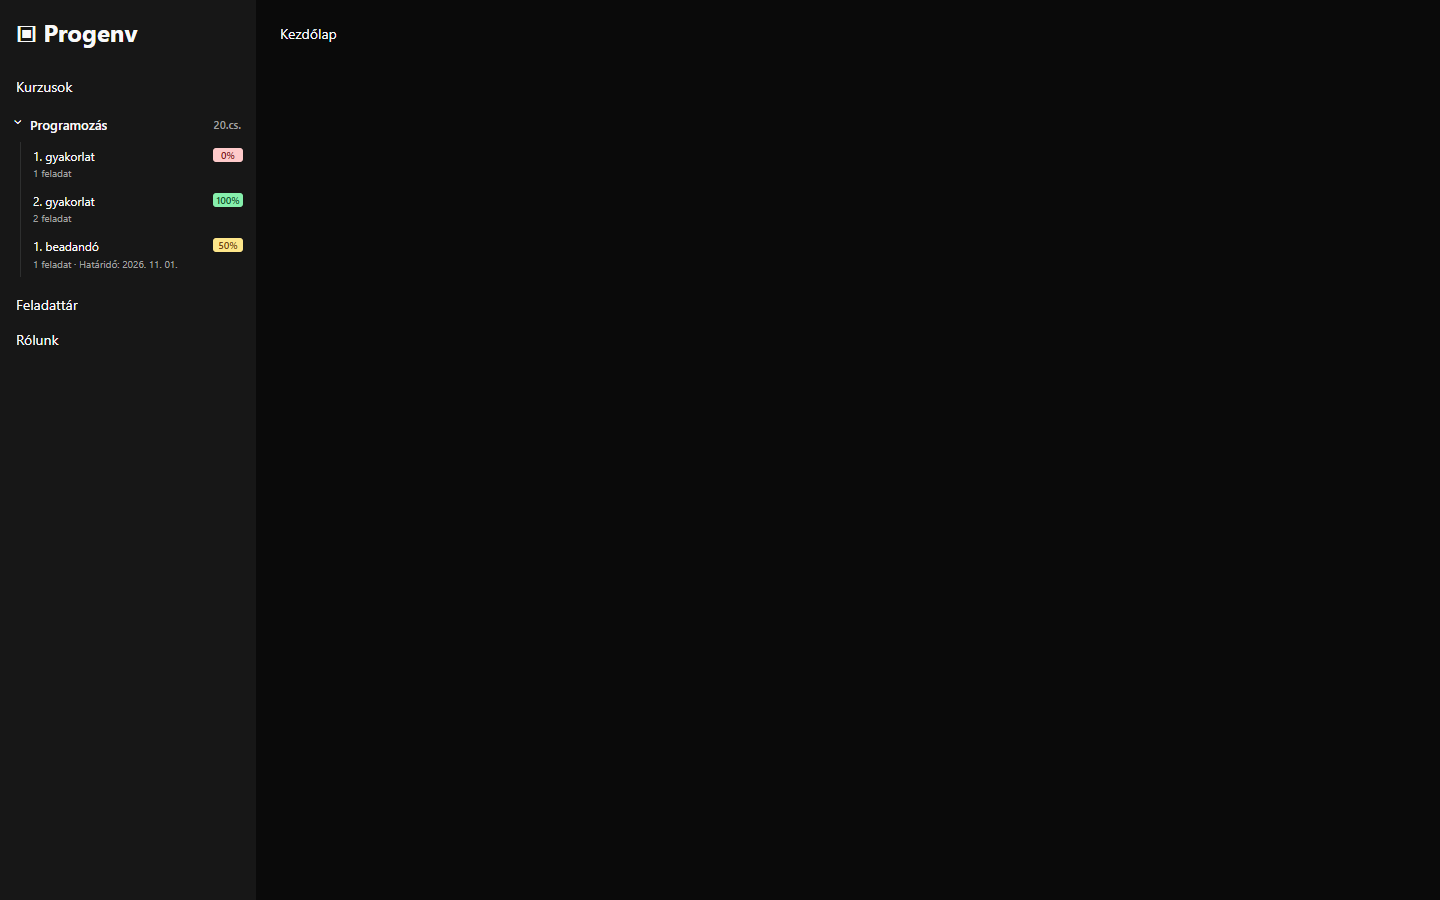
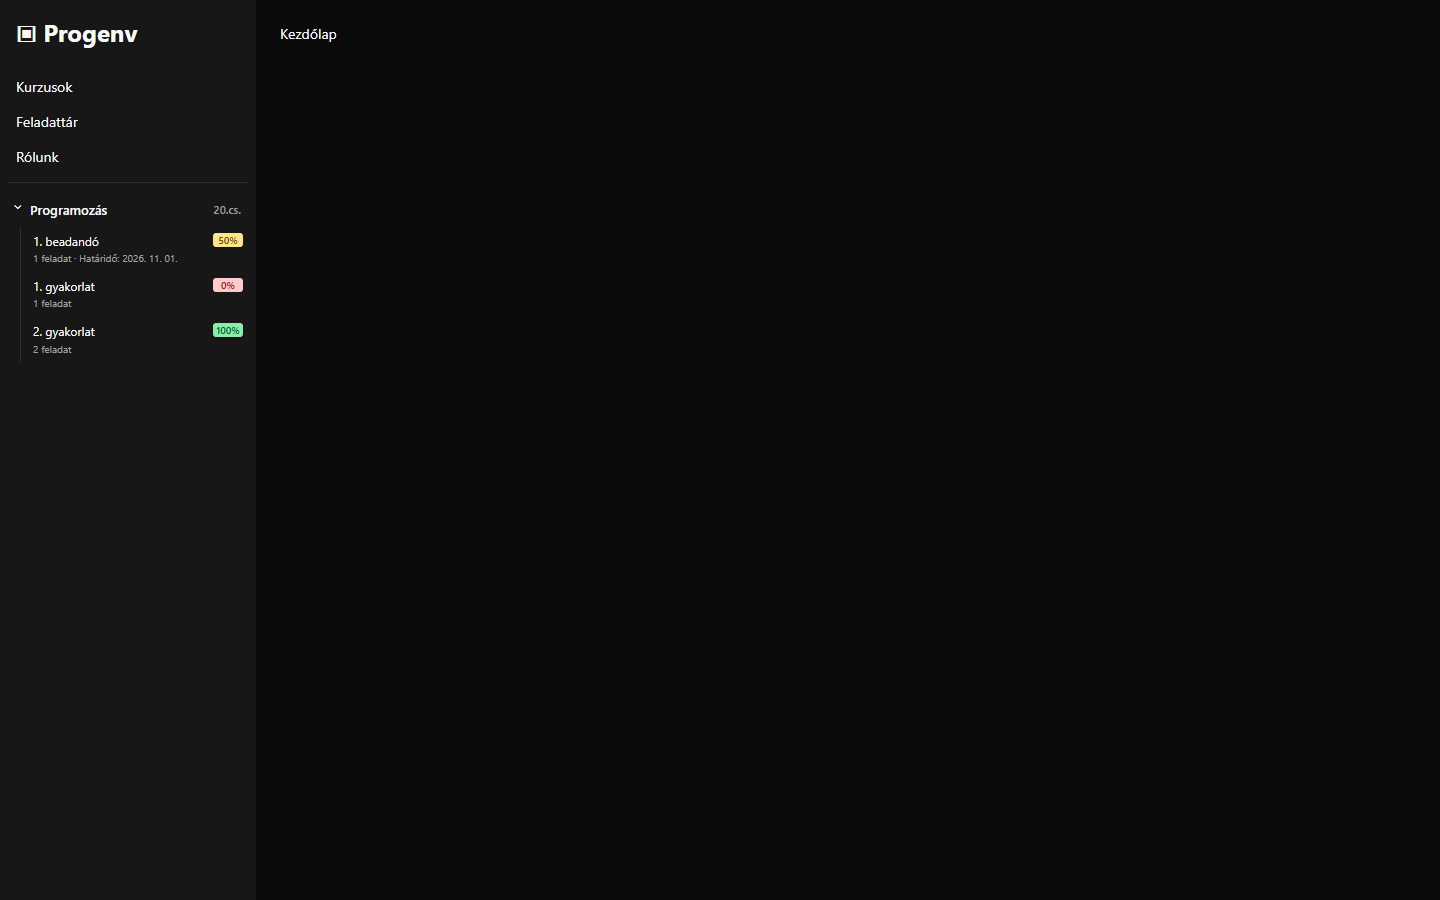
Sort Progenv topics by deadline in a separate sidebar section

diff --git a/progenv-model.js b/progenv-model.js
@@ -21,6 +21,31 @@
     const match = name.match(/(?:^|\s)(\d+)\.?\s*(?:csoport|group)\b/i) || name.match(/^group\s+(\d+)$/i);
     return match ? match[1]+".cs." : name;
   }
+  function deadlineTime(value, locale = 'hu') {
+    const text = clean(value);
+    let match = text.match(/\b(\d{4})[.\/-]\s*(\d{1,2})[.\/-]\s*(\d{1,2})(?:\.?[ T]+(\d{1,2}):(\d{2}))?/);
+    if (!match && locale === 'en') {
+      const english = text.match(/\b(\d{1,2})\/(\d{1,2})\/(\d{4})(?:\s+(\d{1,2}):(\d{2}))?/);
+      if (english) match = [english[0],english[3],english[1],english[2],english[4],english[5]];
+    }
+    if (!match) return null;
+    const [,year,month,day,hour,minute] = match;
+    // A deadline shown without a time remains upcoming through that date.
+    const date = new Date(+year,+month-1,+day,hour == null ? 23 : +hour,minute == null ? 59 : +minute,hour == null ? 59 : 0,hour == null ? 999 : 0);
+    if (date.getFullYear() !== +year || date.getMonth() !== +month-1 || date.getDate() !== +day ||
+        (hour != null && (+hour > 23 || +minute > 59))) return null;
+    return date.getTime();
+  }
+  function sortTopics(topics, now = Date.now()) {
+    const category = topic => Number.isFinite(topic.expiresAt) ? topic.expiresAt >= now ? 0 : 1 : 2;
+    return [...topics].sort((a,b) => {
+      const aCategory = category(a), bCategory = category(b);
+      if (aCategory !== bCategory) return aCategory-bCategory;
+      if (aCategory === 0) return a.expiresAt-b.expiresAt;
+      if (aCategory === 1) return b.expiresAt-a.expiresAt;
+      return 0;
+    });
+  }
   function cards(doc) { return [...doc.querySelectorAll('main [data-slot="card"]')]; }
   function courses(doc, base, locale) {
     const result = new Map();
@@ -70,12 +95,15 @@
       const spans = [...card.querySelectorAll('span')].map(span => clean(span.textContent));
       const count = spans.find(text => /^\d+\s+(?:feladat|tasks?)$/i.test(text)) || "";
       const deadline = spans.find(text => /^(?:Határidő|Deadline|Due)\s*:/i.test(text)) || "";
-      topics.set(link.url,{...link,name:clean(anchor.textContent),score,count,deadline});
+      const closes = spans.find(text => /^(?:Lezárva ekkor|Lezárás|Closes at|Closes|Closing date)\s*:/i.test(text)) || "";
+      const expiryLabel = deadline || closes;
+      topics.set(link.url,{...link,name:clean(anchor.textContent),score,count,deadline:expiryLabel,
+        expiresAt:deadlineTime(expiryLabel,locale)});
     }
     return {...target,key:`${course.courseId}/${target.groupId}`,courseName:course.name,
       name:heading || fallback?.name || "",label:groupLabel(heading || fallback?.name || ""),topics:[...topics.values()]};
   }
-  const api = {route,courseName,groupLabel,courses,groups,group};
+  const api = {route,courseName,groupLabel,deadlineTime,sortTopics,courses,groups,group};
   if (typeof module !== "undefined" && module.exports) module.exports = api;
   else scope.ProgenvSidebarModel = api;
 })(globalThis);

diff --git a/progenv.js b/progenv.js
@@ -9,7 +9,7 @@
   let controller = null, collapsed = {}, errorText = "", generation = 0;
   const style = document.createElement('style');
   style.textContent = `
-    .progenv-quick-courses { color:var(--sidebar-foreground,inherit); font:inherit; padding:2px 0 5px; min-width:0; }
+    .progenv-quick-courses { color:var(--sidebar-foreground,inherit); font:inherit; margin-top:8px; padding:8px 0 5px; border-top:1px solid var(--sidebar-border,#8884); min-width:0; }
     .progenv-quick-courses * { box-sizing:border-box; }
     .progenv-quick-courses details { margin:2px 0 5px; }
     .progenv-quick-courses summary { display:flex; align-items:center; gap:5px; min-height:32px; padding:5px 7px; border-radius:6px; cursor:pointer; font-size:13px; font-weight:600; list-style:none; }
@@ -54,7 +54,7 @@
       summary.append(element('span','progenv-course-name',record.courseName),element('span','progenv-group-number',record.label));
       details.append(summary);
       const list = element('ul','progenv-topic-list');
-      for (const topic of record.topics) {
+      for (const topic of model.sortTopics(record.topics)) {
         const item = element('li');
         const anchor = element('a','progenv-topic'); anchor.href = topic.url;
         const current = model.route(location.href,location.href,locale());
@@ -110,12 +110,13 @@
       if (!link) continue;
       let root = roots.get(area);
       if (!root) {
-        root = element('li','progenv-quick-courses'); root.dataset.progenvQuickCourses = '';
+        root = element('section','progenv-quick-courses'); root.dataset.progenvQuickCourses = '';
+        root.setAttribute('aria-label',translate('Kurzusok témakörei','Course topics'));
         roots.set(area,root); draw(root);
       }
-      const row = link.closest('li');
-      if (row && row.nextElementSibling !== root) row.after(root);
-      else if (!row && !root.isConnected) area.append(root);
+      const navigation = link.closest('[data-sidebar="menu"]') || link.closest('ul');
+      if (navigation && navigation.nextElementSibling !== root) navigation.after(root);
+      else if (!navigation && !root.isConnected) area.append(root);
     }
     if (roots.size && !loaded && !loading && Date.now()-lastAttempt > 30000) refresh();
   }

diff --git a/README.md b/README.md
@@ -20,10 +20,10 @@ A Firefox extension for [ELTE's Stuki editor](https://progalap.elte.hu/stuki/) a
 
 Requires Firefox 128 or later. This is an unsigned development extension.
 
-1. Download [stuki-history-1.4.0.zip](packages/stuki-history-1.4.0.zip) using GitHub's **Download raw file** control, or clone the repository.
+1. Download [stuki-history-1.4.1.zip](packages/stuki-history-1.4.1.zip) using GitHub's **Download raw file** control, or clone the repository.
 2. Open `about:debugging#/runtime/this-firefox`.
 3. Click **Load Temporary Add-on…** and choose the ZIP, or choose `manifest.json` from the cloned repository.
-4. Reload Stuki or Progenv and sign in normally. On Stuki, click **History** beside **Theme**. On Progenv, course shortcuts appear automatically below **Kurzusok** in the sidebar. Allow the extension access to Progenv if Firefox requests it.
+4. Reload Stuki or Progenv and sign in normally. On Stuki, click **History** beside **Theme**. On Progenv, course shortcuts appear automatically in a separate section below **Rólunk** in the sidebar. Allow the extension access to Progenv if Firefox requests it.
 
 Click History again, or press Escape inside the panel, to close it. Temporary add-ons are removed when Firefox restarts. Persistent installation in standard Firefox requires Mozilla signing; the included package is not signed.
 
@@ -35,9 +35,9 @@ To update a temporary installation, reload it in `about:debugging` if loading un
 
 ![Progenv sidebar example with synthetic data](docs/progenv-preview.png)
 
-The extension reads your course list using your current Progenv session, follows each course to its group page or group list, and shows compact topic links in the existing sidebar. For example, **Programozás · 20.cs.** expands to show that group's topics plus course-level topics such as beadandók. The heading toggles the dropdown; it starts open unless you previously collapsed it.
+The extension reads your course list using your current Progenv session, follows each course to its group page or group list, and shows compact topic links in a separate section below the three original navigation items (Kurzusok, Feladattár, Rólunk). For example, **Programozás · 20.cs.** expands to show that group's topics plus course-level topics such as beadandók. The heading toggles the dropdown; it starts open unless you previously collapsed it.
 
-Topic rows show the name, completion percentage when supplied by the site, task count, and deadline. Original topic names and order are preserved. Course codes are removed from the compact heading. Direct links preserve the current Hungarian or English locale. No group ID or personal course list is hardcoded.
+Topic rows show the name, completion percentage when supplied by the site, task count, and deadline. Original topic names are preserved. Topics with upcoming deadlines appear first, earliest deadline first; recently expired items follow, then undated items in their original order. A closing date is used when the topic has no separate deadline. Course codes are removed from the compact heading. Direct links preserve the current Hungarian or English locale. No group ID or personal course list is hardcoded.
 
 The extension uses only same-origin GET requests for course and group pages; it does not open task pages in the background or submit work. It refreshes every five minutes while the page is visible. Course data and progress remain in memory, and are cleared when navigating to the login/logout page. Only collapsed dropdown identifiers are saved as display preferences.
 

diff --git a/TELEPITES.md b/TELEPITES.md
@@ -32,7 +32,7 @@ A felület és adatkezelés szimulált API-válaszokkal ellenőrzött. Bejelentk
 
 Ha nem jelenik meg a gomb, töltsd újra az oldalt, és ellenőrizd, hogy a kiegészítő hozzáférhet-e a Stuki webhelyhez.
 
-## Frissítés 1.4.0-ra
+## Frissítés 1.4.1-re
 
 Ha a kiegészítőt kicsomagolt mappából töltötted be, az `about:debugging` oldalon nyomd meg az **Újratöltés / Reload** gombot, majd töltsd újra a Stuki lapot. Ha ZIP-ből telepítetted, távolítsd el az ideiglenes régi példányt, és töltsd be az új ZIP-et.
 
@@ -46,6 +46,8 @@ A Speci ettől eltérően külön, felső szintű `name` mezőt is küld. A Stuk
 
 ## Progenv oldalsáv
 
-A kiegészítő a https://progenv.inf.elte.hu/ oldalon is működik. Bejelentkezés után a **Kurzusok** alatt automatikusan megjelenik minden elérhető kurzus és csoport, például **Programozás · 20.cs.**. Az alapértelmezetten nyitott legördülőben közvetlen témakörlinkek, feladatszámok, teljesítési arányok és határidők láthatók. A fejlécére kattintva bezárható; ezt a beállítást megjegyzi. A megjelenés a Progenv saját oldalsávszíneit használja.
+A kiegészítő a https://progenv.inf.elte.hu/ oldalon is működik. Bejelentkezés után a három eredeti menüpont után, a **Rólunk** alatt külön szakaszban automatikusan megjelenik minden elérhető kurzus és csoport, például **Programozás · 20.cs.**. Az alapértelmezetten nyitott legördülőben közvetlen témakörlinkek, feladatszámok, teljesítési arányok és határidők láthatók. A fejlécére kattintva bezárható; ezt a beállítást megjegyzi. A megjelenés a Progenv saját oldalsávszíneit használja.
 
 Frissítés után töltsd újra a Progenv lapot is; ha a Firefox kéri, engedélyezd a hozzáférést ehhez a webhelyhez. A kiegészítő csak olvassa a kurzus- és csoportoldalakat a meglévő bejelentkezett munkamenettel, és ötpercenként frissít a látható lapon. Nem küld be feladatot, és nem tárolja tartósan a kurzusadatokat vagy eredményeket. A helyi tárolóba csak az összecsukott kurzus/csoport azonosítója kerül megjelenítési beállításként.
+
+A témakörök a legközelebbi jövőbeli határidő szerint rendezve jelennek meg. Ezeket a már lejárt, majd a határidő nélküli témakörök követik. Ha külön határidő nincs megadva, a lezárás dátumát használja.
